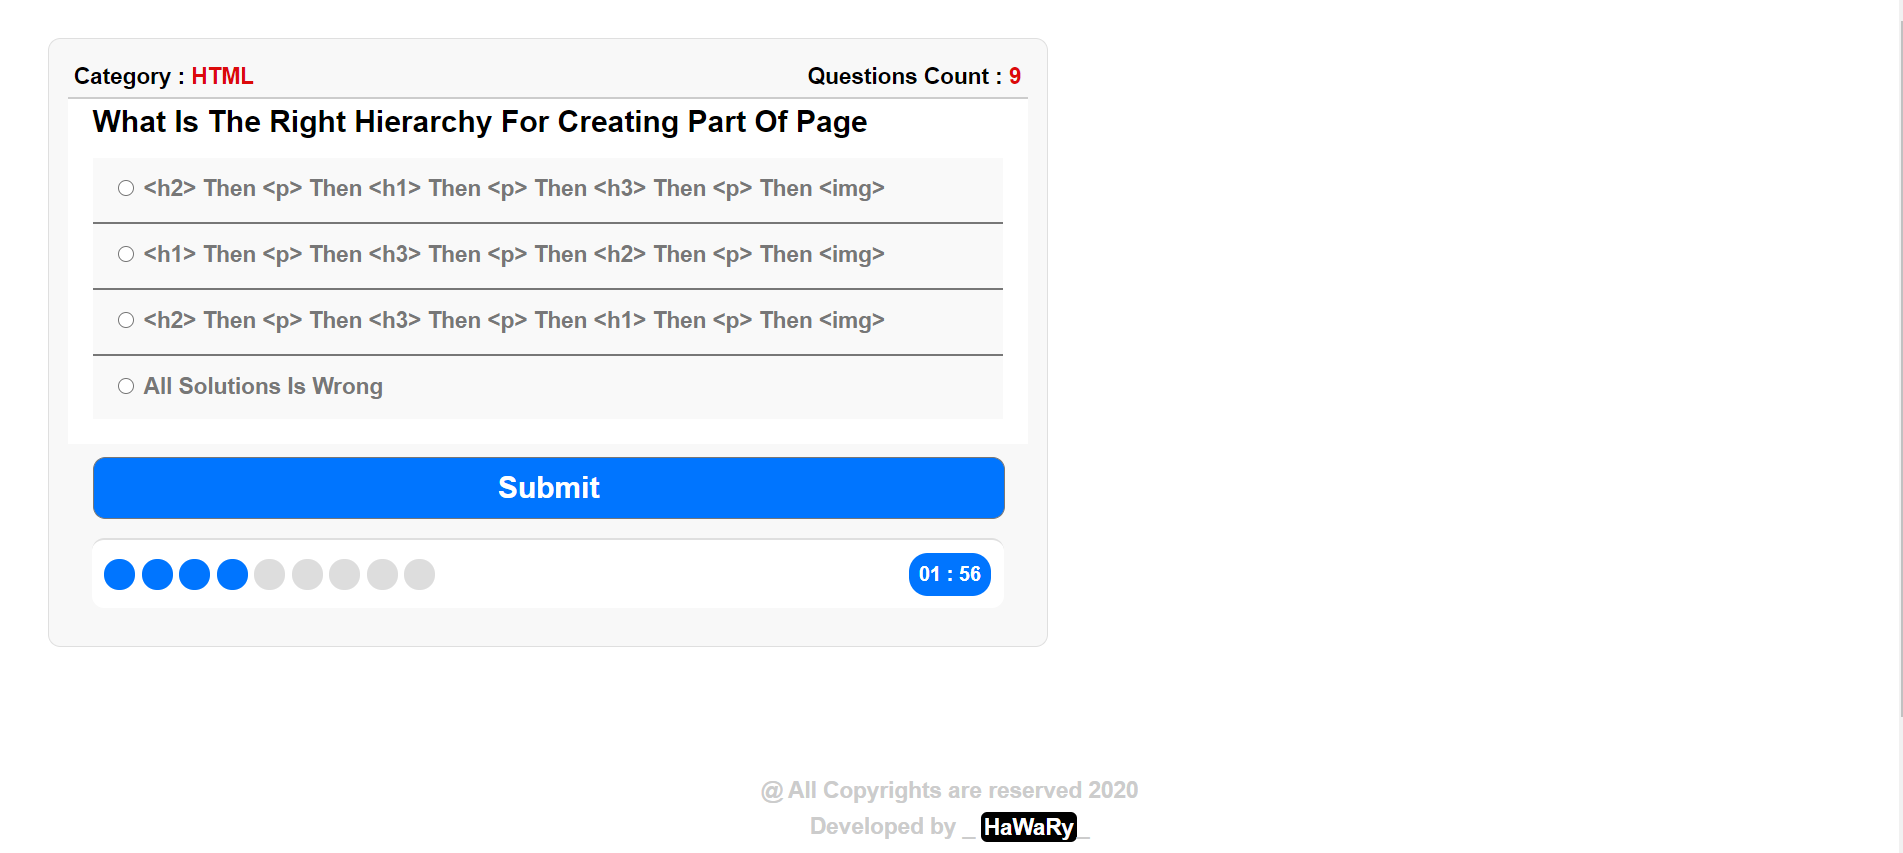
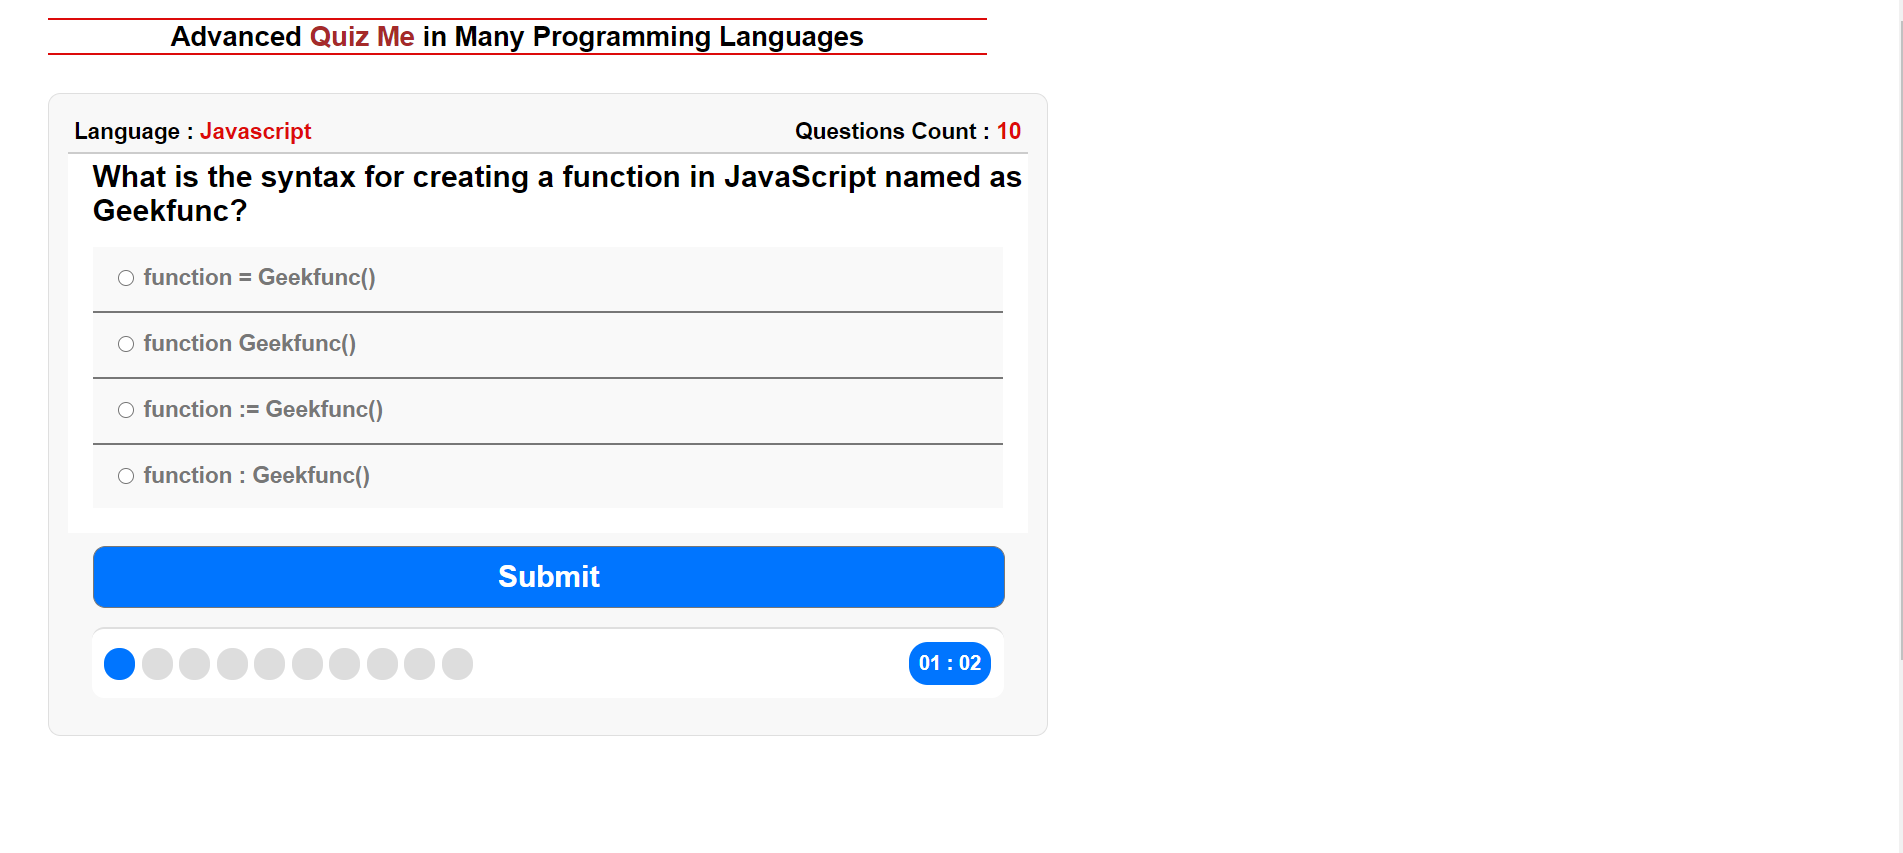
Trigger Version 1.1
JSON File contains More additional Questions in different Programming
Languages.
When Starting the App each Quiz get Totally 10 Random Questions of
Random Languages from the JSON File.

diff --git a/script.js b/script.js
@@ -1,9 +1,8 @@
 /*global document*/
-/*theChoosenAnswer = answers.filter(answer => answer.checked)[0].dataset.answer;*/
-//define your variables and options
+//1-define your variables and options
 var info             = document.querySelector(".info");
     spanCount        = document.querySelector(".info .count span"),
-	category         = document.querySelector(".info .category span"),
+	language         = document.querySelector(".info .language span"),
 	quizArea         = document.querySelector(".quiz-area");
 	question         = document.querySelector(".quiz-area .question"),
 	optionsContainer = document.querySelector(".quiz-area .options"),
@@ -17,41 +16,73 @@ var	currentIndex     = 0,
 	correctTries     = 0,
     countDown;
 
-//get the questions from the json file
+//2-get the question from the json file
 function getQuestions() { 
 	let request = new XMLHttpRequest();
 	request.onreadystatechange = function() {
 		if(this.readyState === 4 && this.status === 200) {
 			let questions = JSON.parse(this.responseText);
 			let questionsLength = questions.length;
+
+			shuffleQuestions(questions); //4-call the shuffleQuestions function
 			
-			createBullets(questionsLength);  //call the createBullets function
-			questionData(questions[currentIndex], questionsLength); //call the questionData function 
-			timer(120, questionsLength);  // call the timer function before submit to start time in the first question
-			
+
+			//5-get 10 random questions from the the shuffle questions and make a sliced array from them
+			let randomQ;
+			let slicedArray;
+			let slicedArrayLength;
+			randomQ = Math.floor(Math.random() * questionsLength);
+			if (randomQ > 20) {
+				slicedArray = questions.slice(randomQ - 10, randomQ);
+				slicedArrayLength = slicedArray.length;
+			} else {
+				slicedArray = questions.slice(randomQ, randomQ + 10);
+				slicedArrayLength = slicedArray.length;
+			}
+		
+
+            createBullets(slicedArrayLength);  //12-call the createBullets function
+			questionData(slicedArray[currentIndex], slicedArrayLength); //13-call the questionData function 
+			timer(120, slicedArrayLength);  //14-call the timer function before submit to start time in the first question
+
+			//15-the effect of clicking on the submit button
 			submit.onclick = function() {
-				let rightAnswer =  questions[currentIndex].right_answer;
+				let rightAnswer =  slicedArray[currentIndex].right_answer;
 				currentIndex++;
 				checkAnswer(rightAnswer);
 				optionsContainer.innerHTML = "";
 				question.innerHTML = "";
-				questionData(questions[currentIndex], questionsLength);
+				questionData(slicedArray[currentIndex], slicedArrayLength);
 				handleBullets();
 				clearInterval(countDown);
-				timer(120, questionsLength);
-				showResult(questionsLength);
+				timer(120, slicedArrayLength);
+                showResult(slicedArrayLength); 
 			};
 		} 	
 	};
+	//2-get the question from the json file
 	request.open("GET", "questions.json", true);
 	request.send();
 }
-	
+
+//16-call the getQuestions() function	
 getQuestions();
 
-//create the bullets
+//3-Shuffle the question function
+function shuffleQuestions(array) {
+    let current = array.length,
+        random;
+    while (current > 0) {
+        random = Math.floor(Math.random() * current);
+        current--;
+        [array[current], array[random]] = [array[random], array[current]] //ES6 Shuffle method
+    }
+    return array;
+}
+
+//6-create the bullets
 function createBullets(count) {
-	spanCount.innerHTML = count;
+    spanCount.innerHTML = count;
 	for (let i= 0; i < count; i++) {
 		var bullet = document.createElement("span");
 		bulletsContainer.appendChild(bullet);
@@ -62,9 +93,11 @@ function createBullets(count) {
 	}	
 }
 
-//create the question data
+//7-create the question data
 function questionData(obj, count) {
 	if(currentIndex < count) {
+        language.innerHTML = obj.language;
+        //shuffleOptions(obj); //call the shuflleOptions function
 		var heading     = document.createElement("h2");
 		var headingText = document.createTextNode(obj.title);
 		heading.appendChild(headingText);
@@ -87,12 +120,12 @@ function questionData(obj, count) {
 			optionDiv.appendChild(labels);
 			
 			optionDiv.className = "option";
-			optionsContainer.appendChild(optionDiv);
+            optionsContainer.appendChild(optionDiv);
 		}
 	}
 }
 
-//checkAnswer function
+//8-checkAnswer function
 function checkAnswer(correctAnswer) {
 	let options = document.getElementsByName("Qoption");
 	let chosenOption;
@@ -106,7 +139,7 @@ function checkAnswer(correctAnswer) {
 	}
 }
 
-//handleBullets function
+//9-handleBullets function
 function handleBullets() {
 	let bullets = document.querySelectorAll(".bullets span");
 	let bulletsArray = Array.from(bullets);
@@ -117,7 +150,7 @@ function handleBullets() {
 	});
 }
 
-//show result function
+//10-show result function
 function showResult(count) {
 	if(currentIndex === count) {
 		info.remove();
@@ -128,16 +161,22 @@ function showResult(count) {
 		result.classList.add("show");
 	
 		if (correctTries > count /2 && correctTries < count) {
-			result.innerHTML = `<span class="good">Good</span> you answered ${correctTries} Questions of ${count} correctly`;
+			result.innerHTML = `<span class="good">Good</span> you answered ${correctTries} Questions of ${count} correctly <button class="good-button">want another Quiz ??</button>`;
 		} else if (correctTries == count) {
-			result.innerHTML = `<span class="perfect">Perfect</span> you answered all the questions correctly`;
+			result.innerHTML = `<span class="perfect">Perfect</span> you answered all the questions correctly<button class="perfect-button">want another Quiz ??</button>`;
 		} else {
-			result.innerHTML = `<span class="bad">Bad</span> you answered ${correctTries} Questions of ${count} correctly`;
+			result.innerHTML = `<span class="bad">Bad</span> you answered ${correctTries} Questions of ${count} correctly<button class="bad-button">Try Again ?</button>`;
 		}
 	}
+	//when clicking on the buuton inside the result Div
+	document.addEventListener("click", (e) => {
+		if(e.target.classList.contains("bad-button") || e.target.classList.contains("good-button") || e.target.classList.contains("perfect-button")) {
+			window.location.reload();
+		}
+	});
 }
 
-//timerFunction
+//11-timerFunction
 function timer(duration, count) {
 	if (currentIndex < count) {
 		    countDown = setInterval(()=> {
@@ -149,6 +188,10 @@ function timer(duration, count) {
 
 			timerContainer.innerHTML = `${min} : ${sec}`;
 			if(duration < 0) {
+			/* note that : you can use >> if(--duration < 0) {}, instead of using >> duration-- above, and it will 
+			do the same thing of duration-- and the timer value will decrease  by one (-1) every 1s, and at the same time the condition of (duration > 0) will be checked also , so we can say that
+			if(--duration > 0) means two things : 1- check the condition of duration > 0 , 2- decrease the timer value by one (-1) every 1s,
+			But don't use the two things together >> if(--duration > 0) & duration-- , because the timer value will decrease twice (-2) every 1s, so the timer logic will fail*/
 				clearInterval(countDown);
 				submit.click();
 			} 

diff --git a/style.css b/style.css
@@ -5,7 +5,17 @@
 }
 
 body {
-	font-family: arial
+	font-family: arial;
+}
+
+h1 {
+	margin-left: 30px;
+	border-bottom: 2px solid #dc0a0a;
+	border-top: 2px solid #dc0a0a;
+	width: 50%;
+	text-align: center;
+	font-size: 22px;
+	font-weight: bold;
 }
 
 .container {
@@ -25,7 +35,7 @@ body {
 	border-bottom: 2px solid #ccc;
 }
 
-.container .info .category {
+.container .info .language {
 	flex: 1
 }
 
@@ -34,7 +44,7 @@ body {
 	text-align: right
 }
 
-.container .info .category span, .container .info .count span {
+.container .info .language span, .container .info .count span {
 	color: #dc0a0a
 }
 
@@ -156,6 +166,50 @@ body {
 	font-weight: bold;
 	margin-top: 10px;
 	min-height: 500px;
+}
+
+.container .result button {
+	display: block;
+	padding: 15px;
+	border: 2px solid #777;
+	border-radius: 20px;
+	font-size: 18px;
+	font-weight: bold;
+	cursor: pointer;
+	color: #fff;
+	position: absolute;
+	top: 30%;
+	left: 22%;
+	user-select: none;	
+}
+
+.container .result button:focus{
+	outline: none;
+}
+.container .result button.bad-button {
+	background-color: #dc0a0a;
+}
+
+.container .result button.good-button {
+	background-color: #009688 ;
+}
+
+.container .result button.perfect-button {
+	background-color: #0075ff;
+}
+
+.container .result button.bad-button:hover {
+	color: #dc0a0a;
+	background-color: #fff;
+}
+
+.container .result button.good-button:hover {
+	color: #009688;
+	background-color: #fff;}
+
+.container .result button.perfect-button:hover {
+	color: #0075ff;
+	background-color: #fff;
 }
 
 .container .result span.bad {

diff --git a/index.html b/index.html
@@ -1,4 +1,8 @@
-<!--v1-->
+<!--v.1.1-->
+<!--/////////What's New///////
+	1- More additional Questions in different programming languages.
+	2- When starting the App each quiz get totally 10 random questions of random languages from the JSON file. 
+-->
 <!DOCTYPE html>
 <html lang="en">
     <head>
@@ -7,9 +11,11 @@
 		<link rel="stylesheet" href="style.css">
     </head>
     <body>
+		<h1>Advanced <span style="color: brown;">Quiz Me</span> in Many Programming Languages</h1>
    		<div class="container">
+   		
    			<div class="info">
-   				<div class="category">Category : <span>HTML</span></div>
+   				<div class="language">Language : <span></span></div>
 				<div class="count">Questions Count : <span></span></div>
    			</div>
    			
@@ -28,12 +34,12 @@
    			<div class="result"></div>
    			
    		</div>
-    
+		   
 		<footer>
 			<span>&#64; All Copyrights are reserved 2020</span>
 			<p>Developed by _ <span>HaWaRy</span>_</p>
-		</footer>
-	 
+	 	</footer>
+    
     	<script src="script.js"></script>
 	</body>
 </html>

diff --git a/README.md b/README.md
@@ -9,7 +9,7 @@ Quiz Me is a Quiz App. test your Skills in Programming Languages depends on JSON
 ## Demo and How to Interact
  - Try to Answer every Question before the Time is gone out.  
 
-![quiz-me-your-gate-to-test-your-s](https://user-images.githubusercontent.com/69651552/93912184-ad278900-fd03-11ea-92cb-1ec483db9a70.gif)
+![quiz-me-your-gate-to-test-your-s](https://user-images.githubusercontent.com/69651552/93914205-7d2db500-fd06-11ea-8c61-b64d6fed65e1.gif)
 
 
 ## Getting Started
@@ -23,7 +23,12 @@ Just Modern Browser like "Chrome" and a Code Editor for Deployment and Develop.
 ## versions  
 * [v1](https://github.com/Mohamed-Elhawary/quiz-me/tree/v1)  
 
-    - JSON File Contains Only 9 Static Questions in one Progamming Language Category that doesn't change (HTML)
+    - JSON File contains Only 9 Static Questions in one Progamming Language Category that doesn't change (HTML)  
+
+* [v1.1](https://github.com/Mohamed-Elhawary/quiz-me/tree/v1.1)   
+
+    - JSON File contains More additional Questions in different Programming Languages.
+	- When starting the App each quiz get totally 10 random questions of random languages from the JSON file.
 
 ## Built With
 
